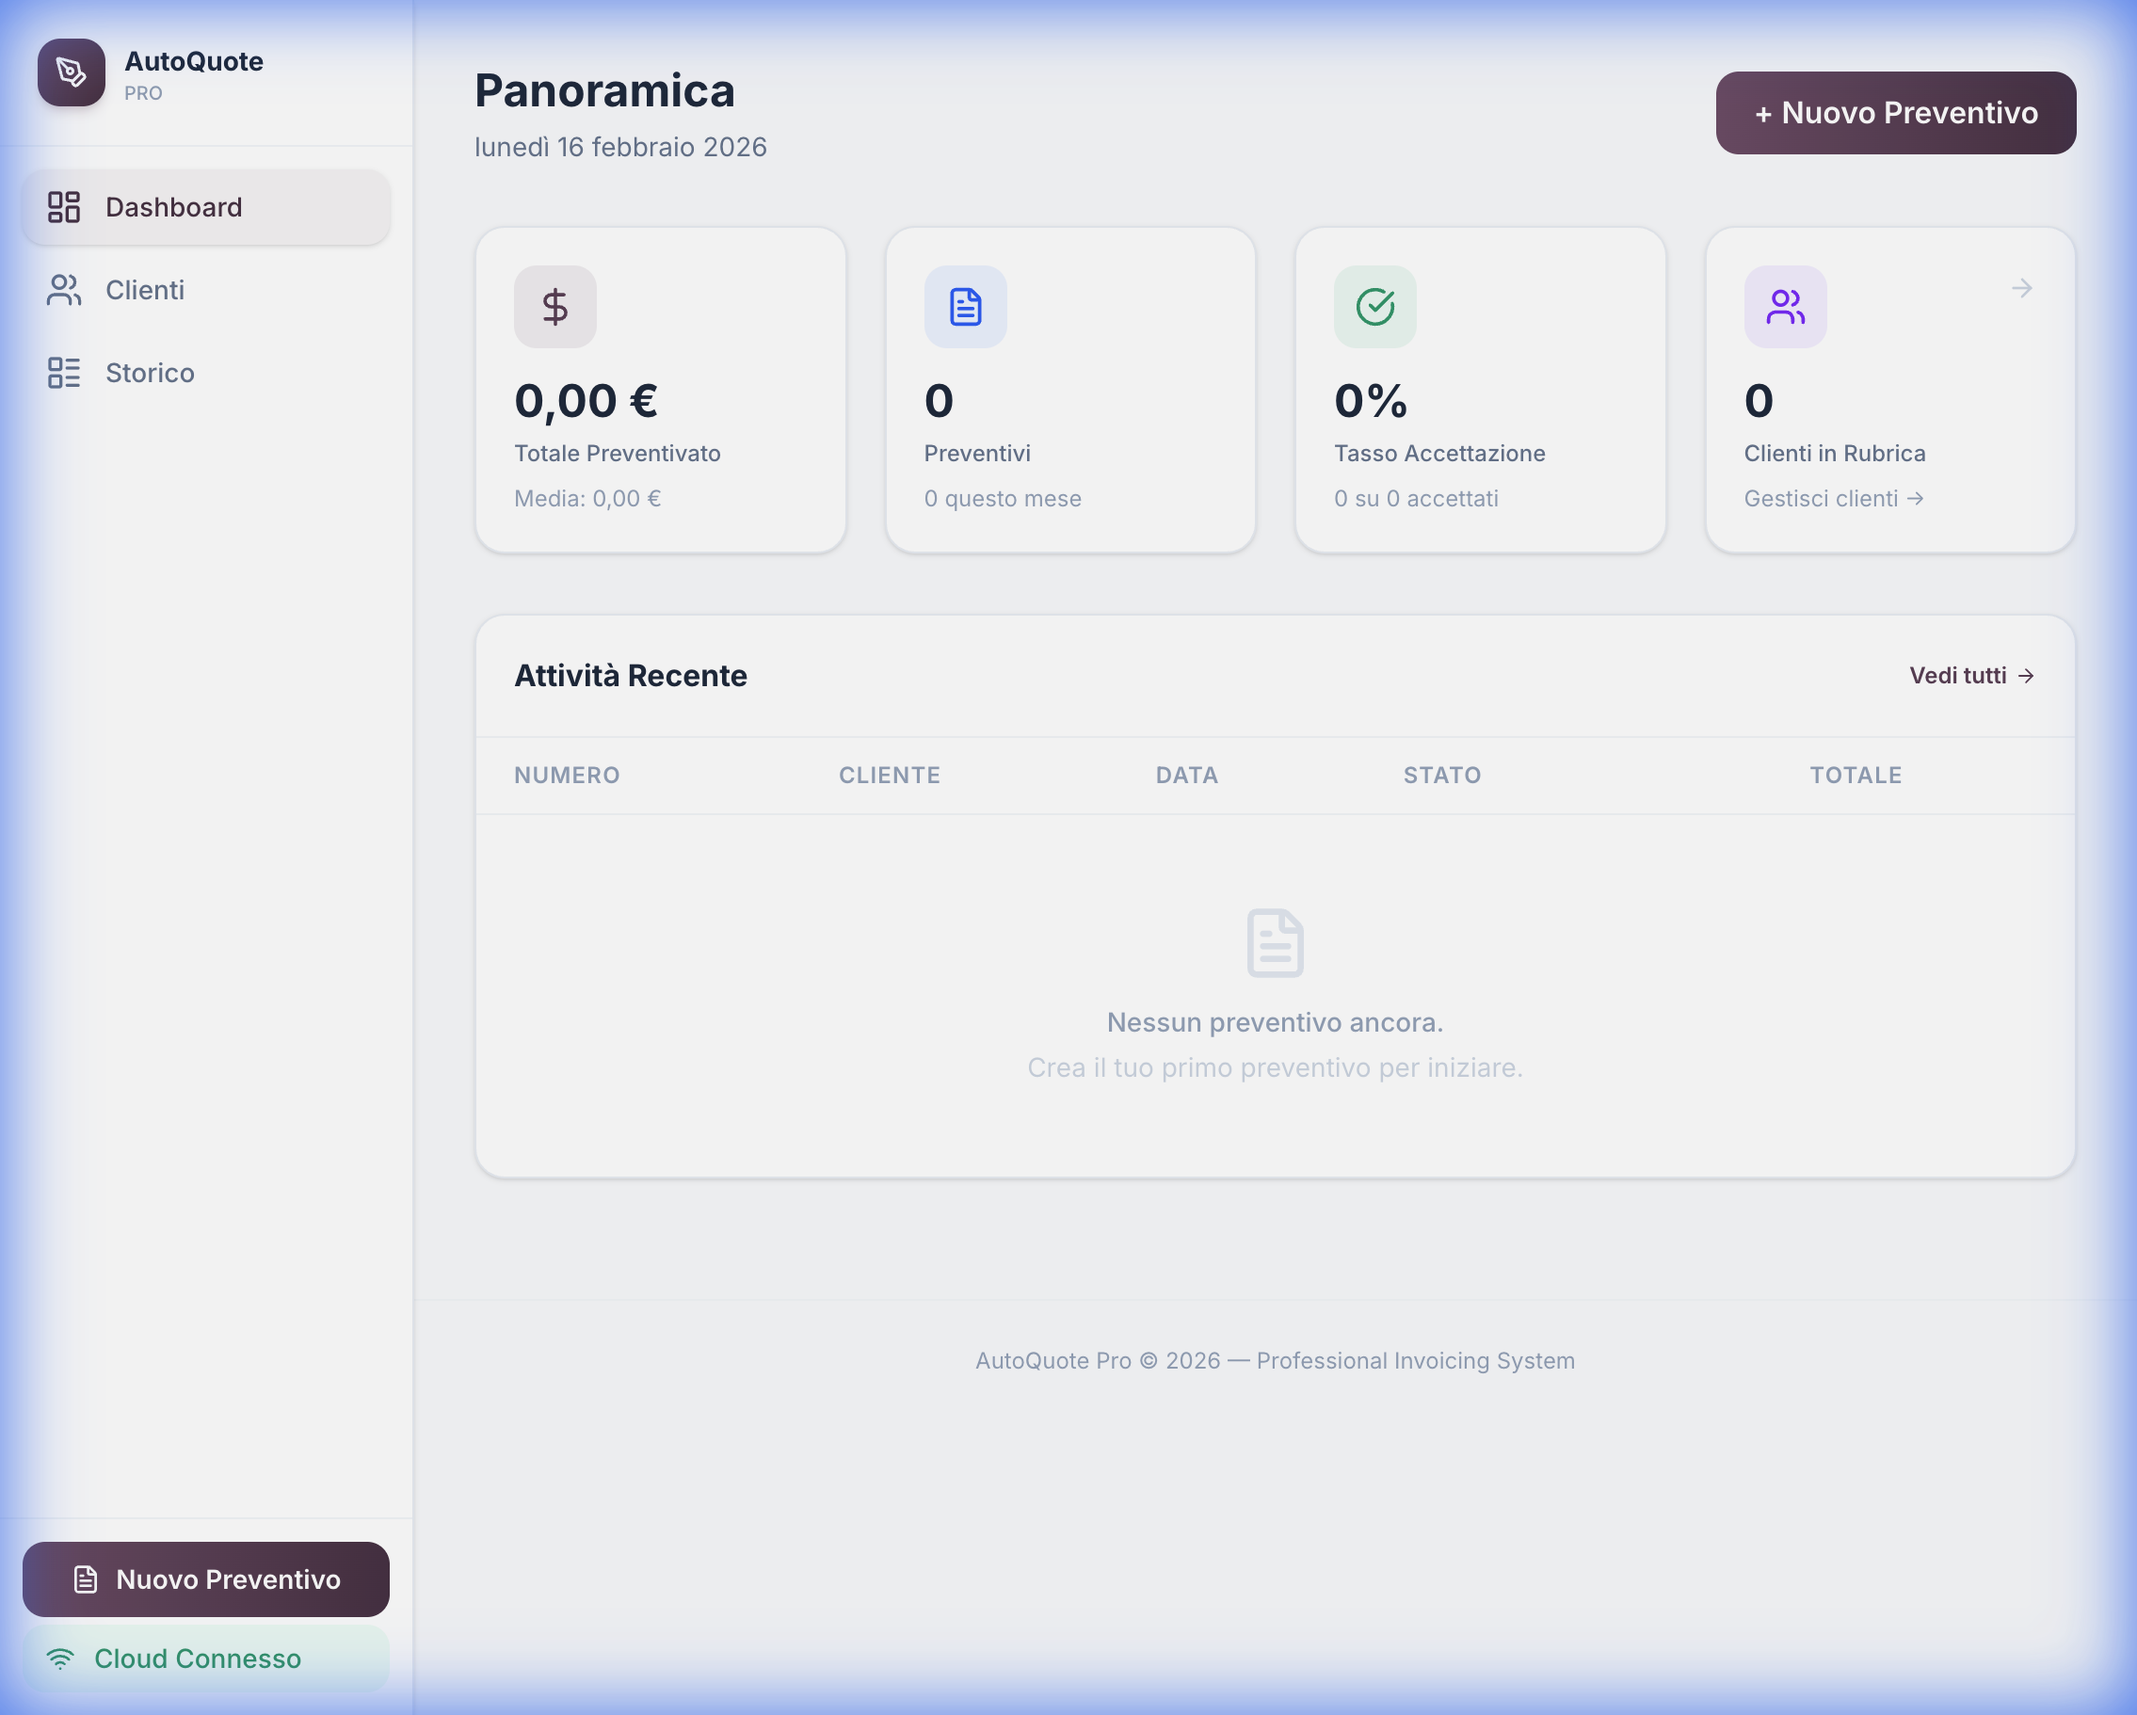
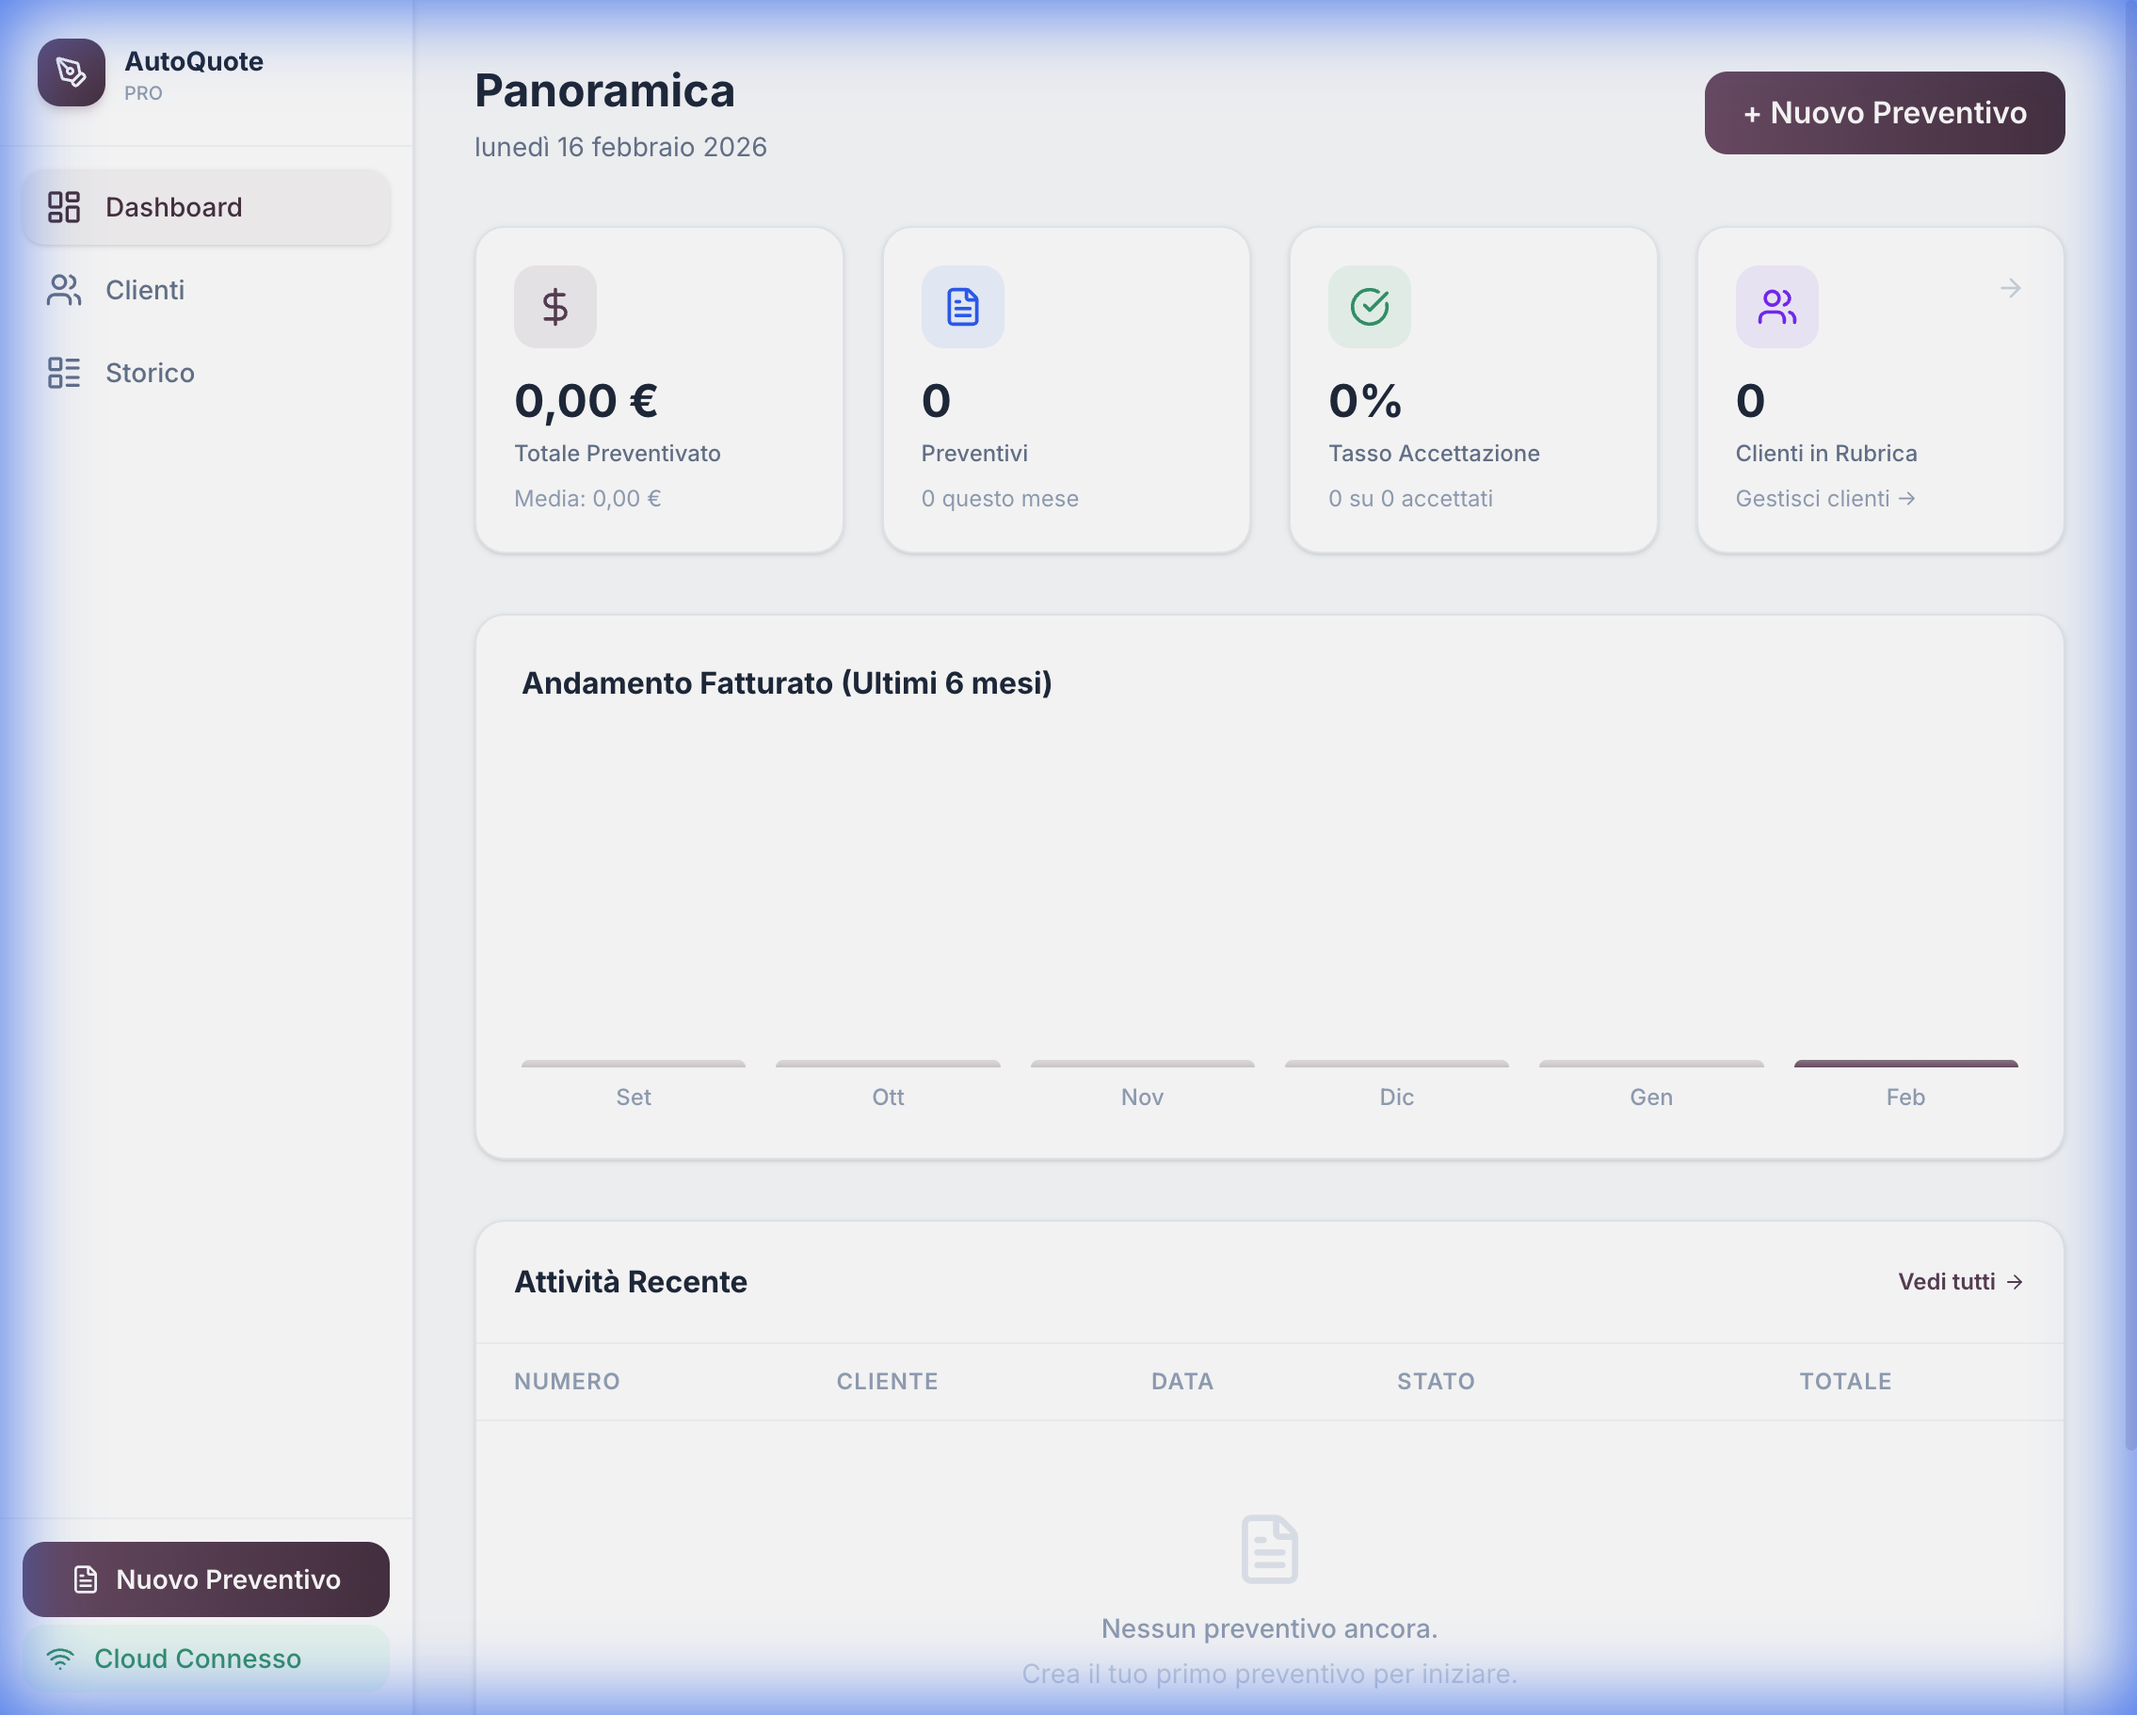
feat: Add Revenue Chart to Dashboard and Deploy buttons to README

diff --git a/components/Dashboard.tsx b/components/Dashboard.tsx
@@ -105,6 +105,62 @@ export const Dashboard: React.FC<DashboardProps> = ({ quotes, clientCount, onNav
         ))}
       </div>
 
+      {/* Revenue Chart */}
+      <div className="bg-white border border-slate-200/80 rounded-2xl p-6 shadow-sm">
+        <h3 className="font-bold text-slate-800 mb-6">Andamento Fatturato (Ultimi 6 mesi)</h3>
+        <div className="flex items-end justify-between h-48 gap-2 sm:gap-4">
+          {Array.from({ length: 6 }).map((_, i) => {
+            const date = new Date();
+            date.setMonth(date.getMonth() - (5 - i));
+            const monthKey = date.toLocaleString('default', { month: 'short' });
+
+            // Calculate revenue for this month
+            const monthRevenue = quotes
+              .filter(q => {
+                const qDate = new Date(q.date);
+                return qDate.getMonth() === date.getMonth() &&
+                  qDate.getFullYear() === date.getFullYear() &&
+                  q.status !== 'rejected';
+              })
+              .reduce((sum, q) => sum + q.items.reduce((s, item) => s + (item.quantity * item.unitPrice), 0), 0);
+
+            // Calculate max revenue for scaling (min 1000 to avoid division by zero visually)
+            const maxRev = Math.max(
+              ...Array.from({ length: 6 }).map((_, j) => {
+                const d = new Date();
+                d.setMonth(d.getMonth() - (5 - j));
+                return quotes
+                  .filter(q => {
+                    const qD = new Date(q.date);
+                    return qD.getMonth() === d.getMonth() && qD.getFullYear() === d.getFullYear();
+                  })
+                  .reduce((sum, q) => sum + q.items.reduce((s, item) => s + (item.quantity * item.unitPrice), 0), 0);
+              }),
+              1000
+            );
+
+            const heightPerc = Math.round((monthRevenue / maxRev) * 100);
+
+            return (
+              <div key={i} className="flex flex-col items-center flex-1 group relative">
+                <div className="w-full bg-slate-50 rounded-t-lg relative flex items-end overflow-hidden h-full group-hover:bg-slate-100 transition-colors">
+                  <div
+                    style={{ height: `${heightPerc}%` }}
+                    className={`w-full bg-gradient-to-t ${i === 5 ? 'from-brand-500 to-brand-400' : 'from-brand-200 to-brand-100'} rounded-t-md transition-all duration-1000 ease-out group-hover:from-brand-600 group-hover:to-brand-500 relative min-h-[4px]`}
+                  >
+                  </div>
+                </div>
+                {/* Tooltip */}
+                <div className="absolute -top-10 opacity-0 group-hover:opacity-100 transition-opacity bg-slate-800 text-white text-xs py-1 px-2 rounded-md pointer-events-none whitespace-nowrap z-10">
+                  {CURRENCY_FORMATTER.format(monthRevenue)}
+                </div>
+                <span className="text-xs text-slate-400 mt-2 font-medium capitalize">{monthKey}</span>
+              </div>
+            );
+          })}
+        </div>
+      </div>
+
       {/* Recent Activity */}
       <div className="bg-white border border-slate-200/80 rounded-2xl overflow-hidden shadow-sm">
         <div className="p-5 border-b border-slate-100 flex justify-between items-center">

diff --git a/README.md b/README.md
@@ -12,6 +12,28 @@
   </p>
 </div>
 
+<div align="center">
+  <br />
+  <a href="https://vercel.com/new/clone?repository-url=https%3A%2F%2Fgithub.com%2FBaglion00%2FCRM-Pro">
+    <img src="https://vercel.com/button" alt="Deploy with Vercel"/>
+  </a>
+  &nbsp;
+  <a href="https://app.netlify.com/start/deploy?repository=https://github.com/Baglion00/CRM-Pro">
+    <img src="https://www.netlify.com/img/deploy/button.svg" alt="Deploy to Netlify"/>
+  </a>
+</div>
+
+---
+
+## ✨ Perché questo CRM?
+
+Spesso i CRM "famosi" sono troppo complessi, costosi o non adattati alla burocrazia italiana. **AutoQuote Pro** nasce per colmare questo vuoto:
+
+- ✅ **Niente abbonamenti mensili**: Il codice è tuo.
+- ✅ **Privacy Totale**: I dati stanno nel tuo browser o nel tuo Supabase privato.
+- ✅ **Stile Premium**: Per fare bella figura coi clienti anche dal preventivo.
+- ✅ **Italiano Nativo**: Predisposto per P.IVA, C.F., Bollo e Ritenuta.
+
 ---
 
 ## ✨ Panoramica
